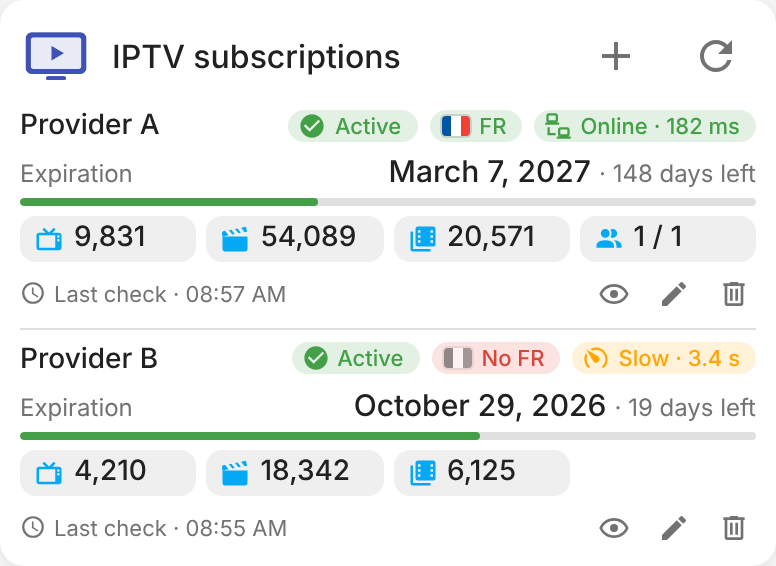
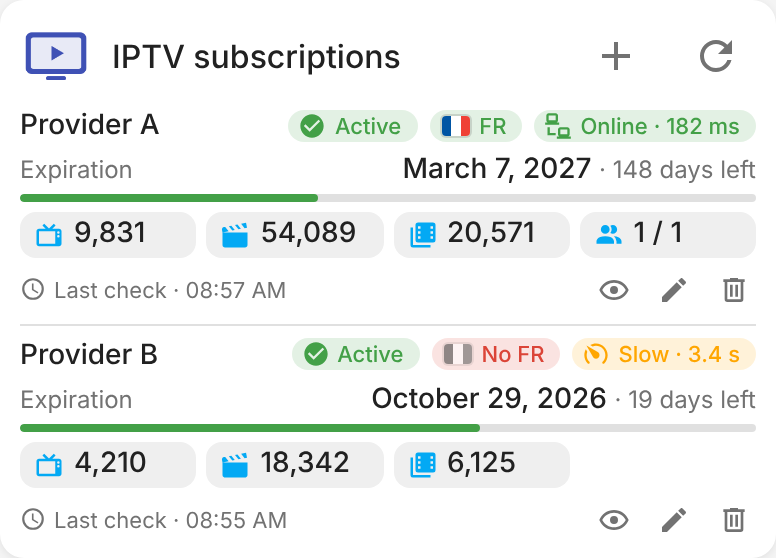
Expiration date in 14 px, AGENT.md, no strings.json (3.13.6) (#29)
Claude-Session: https://claude.ai/code/session_01FyVHJkuQopwM66ytqwsrgB

diff --git a/custom_components/iptv/frontend/iptv-card.js b/custom_components/iptv/frontend/iptv-card.js
@@ -8,7 +8,7 @@
  *
  * https://github.com/juju35/ha-iptv
  */
-var IPTV_CARD_VERSION = '3.13.5';
+var IPTV_CARD_VERSION = '3.13.6';
 var IPTV_DOMAIN = 'iptv';
 var IPTV_LOGO_URL = `/${IPTV_DOMAIN}/logo.png?v=${IPTV_CARD_VERSION}`;
 
@@ -534,7 +534,7 @@ class IptvCard extends HTMLElement {
         .row { display:flex; justify-content:space-between; align-items:baseline; gap: 8px; }
         .lbl { color: var(--secondary-text-color); font-size: 11px; }
         .exp .lbl { font-size: 12px; }
-        .val { font-weight:500; font-size: 15px; }
+        .val { font-weight:500; font-size: 14px; }
         .bar { height:4px; border-radius:3px; background: var(--divider-color, rgba(127,127,127,.25)); margin-top:4px; overflow:hidden; }
         .rem { font-weight:400; font-size:12px; color: var(--secondary-text-color); }
         .rem.warning, .rem.error { color: var(--c); }

diff --git a/custom_components/iptv/const.py b/custom_components/iptv/const.py
@@ -1,7 +1,7 @@
 """Constants for the IPTV integration."""
 
 DOMAIN = "iptv"
-VERSION = "3.13.5"
+VERSION = "3.13.6"
 
 CONF_SCAN_INTERVAL = "scan_interval"
 DEFAULT_SCAN_INTERVAL = 60  # minutes

diff --git a/custom_components/iptv/AGENT.md b/custom_components/iptv/AGENT.md
@@ -1,0 +1,35 @@
+# IPTV Integration — Agent Context
+
+## Purpose
+Home Assistant custom integration that tracks one or several IPTV subscriptions, through the Xtream Codes API (username / password) or a Stalker / Ministra portal (MAC address): status, expiration, days left, live channels / movies / series counts, connections, health.
+Ships its own Lovelace card (`frontend/iptv-card.js`), served by the integration itself. Domain `iptv`, formerly `iptv_xtream`.
+
+## Architecture
+
+```
+custom_components/iptv/
+├── __init__.py        # Setup, card and logo static paths, dashboard resource, platforms
+├── api.py             # Clients for the supported providers (Xtream Codes, Stalker portal)
+├── coordinator.py     # DataUpdateCoordinator, one per account
+├── entity.py          # Base entity: one device per account
+├── sensor.py          # Subscription sensors (status, expiration, days left, counts, connections)
+├── binary_sensor.py   # Subscription binary sensors
+├── health.py          # Lightweight health check of one account (reachability, response time, optional stream)
+├── naming.py          # Automatic account title: the server name
+├── notify_add.py      # Sends the connection details of a new account to a notify service
+├── notify_expiry.py   # Persistent notification before the subscription expires
+├── services.py        # iptv.add_account / edit_account / remove_account / get_credentials
+├── migrate.py         # Moves accounts of the former iptv_xtream domain to iptv
+├── config_flow.py     # Xtream Codes or Stalker portal, options
+├── const.py           # Constants, VERSION (card cache-buster), CARD_URL / LOGO_URL
+├── services.yaml / translations/{en,fr}.json
+├── brand/             # Integration icon and logo
+└── frontend/iptv-card.js   # Vanilla JS card, no dependencies
+```
+
+## Card
+- Served from `/iptv/iptv-card.js` (logo from `/iptv/logo.png`) and added to the Lovelace resources at startup, URL versioned with `VERSION`. Falls back to `add_extra_js_url` when resources are in YAML mode.
+- Popups (add, edit, confirmation) open at the top of the card, like the other ha-* cards.
+
+## Release
+HACS installs `iptv.zip` from the release. Bump the version in manifest.json, const.py (`VERSION`) and `IPTV_CARD_VERSION` in the card, add the CHANGELOG.md section, and push to main: the Release workflow publishes `vX.Y.Z` (tag, notes from the CHANGELOG, `iptv.zip`) when that tag doesn't exist yet, and fails if the three versions differ.

diff --git a/CHANGELOG.md b/CHANGELOG.md
@@ -1,5 +1,14 @@
 # Changelog
 
+## 3.13.6
+
+### Changes
+- Card: expiration date in 14 px, the value size of the other ha-* cards.
+
+### Maintenance
+- Removed `strings.json`, a copy of `translations/en.json` that Home Assistant does not read for custom integrations.
+- Added `AGENT.md`, like the other ha-* integrations.
+
 ## 3.13.5
 
 ### Changes
